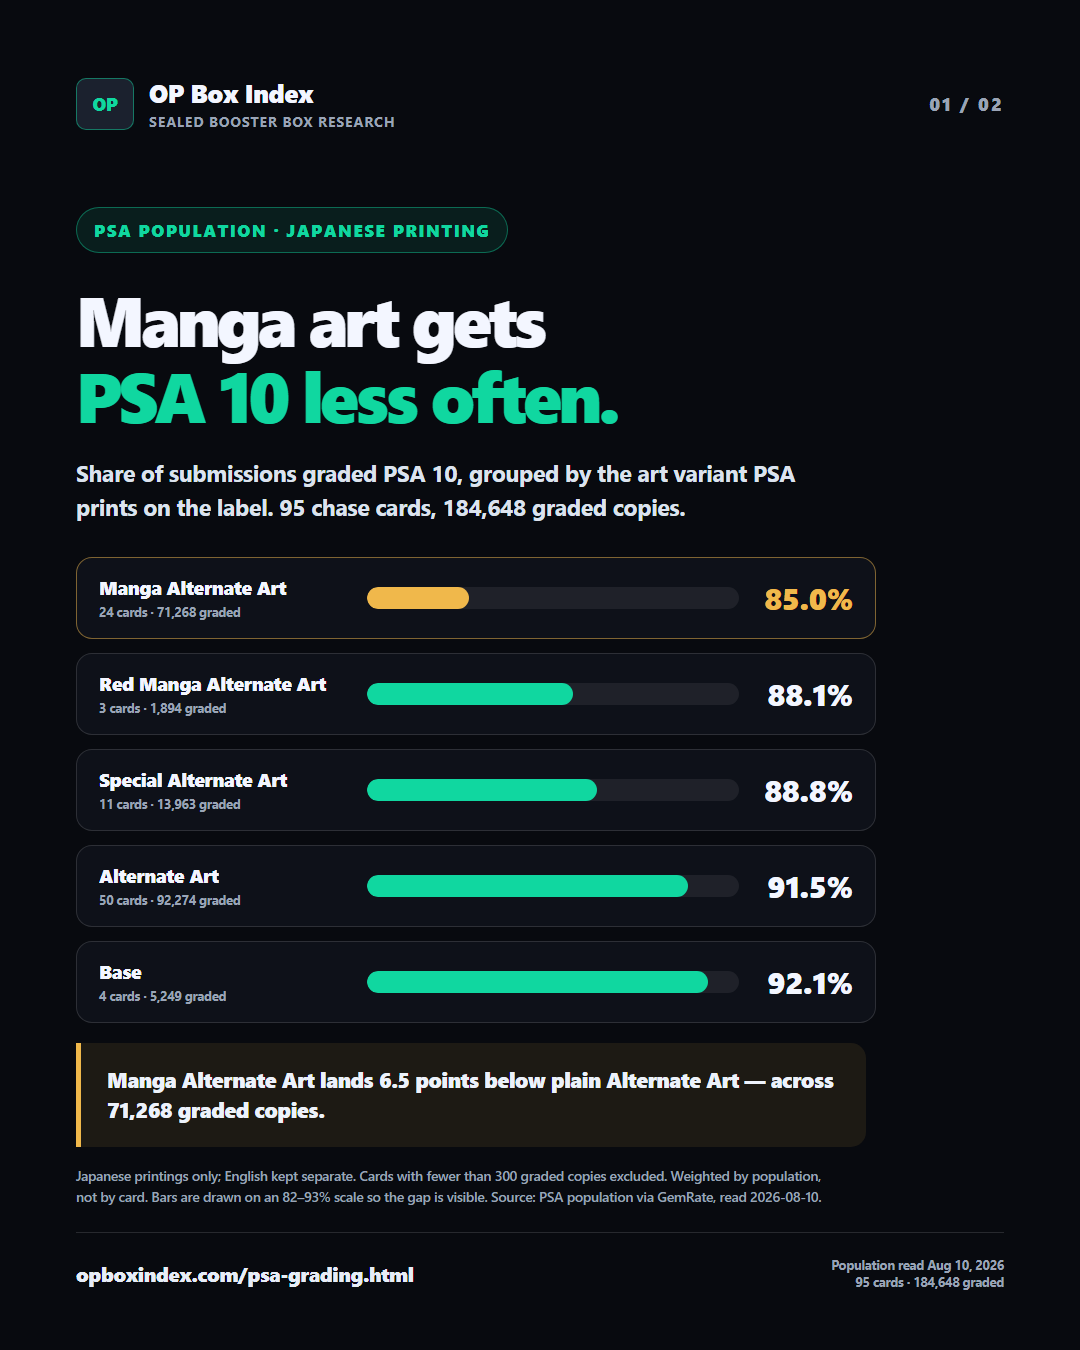
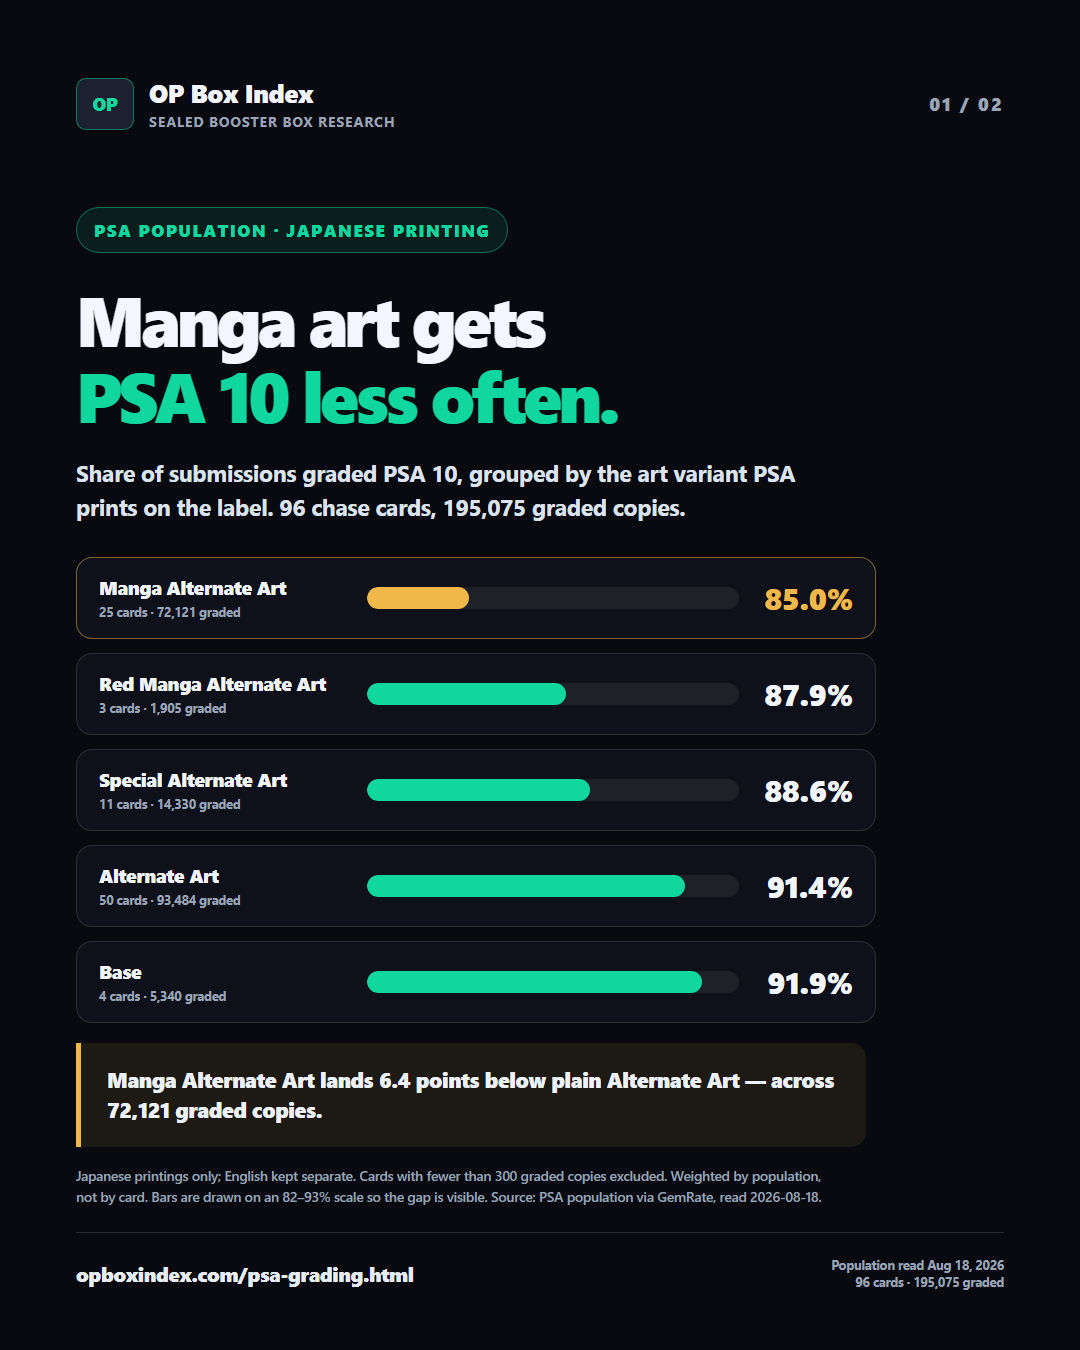
카드별 PSA 인구 8/18 수집 — 8/10 에 멈춰 있던 것
지난주 월요일 이후 카드별 PSA 인구만 갱신이 없었다(CGC·TAG 는 오늘 받았다).
스레드 카드에 "Aug 10" 이 박히길래 확인하다 발견했다.

왜 멈췄나 — GemRate 가 헤드리스 크롬을 봇으로 막는다("잠시만 기다리십시오").
tools/collect-psa-card-pop.js 는 헤드리스 CDP 라 이제 못 쓴다. 실브라우저에서
fetch 로 HTML 을 받아 `var RowData = '...'` 를 파싱하면 통과한다.

필드명도 실측과 달랐다. 스크립트는 total_graded 를 찾는데 실제는 card_total_grades 다
— 그대로 두면 감정 수가 전부 0 으로 들어간다(첫 시도가 그랬다). card_number 는
세트 접두어 없는 "069" 형식이라 "OP05-069" 와 직접 대조하면 하나도 안 맞는다.
이 두 가지를 post-copy.md 수집 메모에 적어 뒀다.

결과: jp 21세트 · en 12세트, 285건 적재. 남은 영문 7세트는 연속 요청 한도에 걸렸다.
Manga Alt 85.0% vs Alternate Art 91.4% — 8일 새 1만 장이 더 감정됐는데 비율은 그대로다.

스레드 카드·본문을 8/18 값으로 다시 뽑았다. 톤 규칙도 문서에 남긴다: 데이터보다
세게 말하지 않기, "알 수 없다" 류 방어 문장 금지, 조건은 "JP · Aug 18, 2026" 처럼 라벨로.

수집이 끝난 덤프는 지웠다(Downloads 26개 19MB, 임시파일 18개).

diff --git a/assets/social/threads-2026-08-18-psa-gem-by-variant/slide-01-en.html b/assets/social/threads-2026-08-18-psa-gem-by-variant/slide-01-en.html
@@ -18,42 +18,42 @@
 
       <div class="eyebrow">PSA POPULATION · JAPANESE PRINTING</div>
       <h1>Manga art gets<br /><span>PSA 10 less often.</span></h1>
-      <p class="deck">Share of submissions graded PSA 10, grouped by the art variant PSA prints on the label. 95 chase cards, 184,648 graded copies.</p>
+      <p class="deck">Share of submissions graded PSA 10, grouped by the art variant PSA prints on the label. 96 chase cards, 195,075 graded copies.</p>
 
       <section class="gemPanel" aria-label="PSA 10 rate by art variant">
         <article class="gemRow worst">
-          <div class="gemName">Manga Alternate Art<small>24 cards · 71,268 graded</small></div>
+          <div class="gemName">Manga Alternate Art<small>25 cards · 72,121 graded</small></div>
           <div class="gemBarWrap"><div class="gemBar" style="width:27.3%"></div></div>
           <div class="gemPct">85.0%</div>
         </article>
         <article class="gemRow">
-          <div class="gemName">Red Manga Alternate Art<small>3 cards · 1,894 graded</small></div>
-          <div class="gemBarWrap"><div class="gemBar" style="width:55.5%"></div></div>
-          <div class="gemPct">88.1%</div>
+          <div class="gemName">Red Manga Alternate Art<small>3 cards · 1,905 graded</small></div>
+          <div class="gemBarWrap"><div class="gemBar" style="width:53.6%"></div></div>
+          <div class="gemPct">87.9%</div>
         </article>
         <article class="gemRow">
-          <div class="gemName">Special Alternate Art<small>11 cards · 13,963 graded</small></div>
-          <div class="gemBarWrap"><div class="gemBar" style="width:61.8%"></div></div>
-          <div class="gemPct">88.8%</div>
+          <div class="gemName">Special Alternate Art<small>11 cards · 14,330 graded</small></div>
+          <div class="gemBarWrap"><div class="gemBar" style="width:60.0%"></div></div>
+          <div class="gemPct">88.6%</div>
         </article>
         <article class="gemRow">
-          <div class="gemName">Alternate Art<small>50 cards · 92,274 graded</small></div>
-          <div class="gemBarWrap"><div class="gemBar" style="width:86.4%"></div></div>
-          <div class="gemPct">91.5%</div>
+          <div class="gemName">Alternate Art<small>50 cards · 93,484 graded</small></div>
+          <div class="gemBarWrap"><div class="gemBar" style="width:85.5%"></div></div>
+          <div class="gemPct">91.4%</div>
         </article>
         <article class="gemRow">
-          <div class="gemName">Base<small>4 cards · 5,249 graded</small></div>
-          <div class="gemBarWrap"><div class="gemBar" style="width:91.8%"></div></div>
-          <div class="gemPct">92.1%</div>
+          <div class="gemName">Base<small>4 cards · 5,340 graded</small></div>
+          <div class="gemBarWrap"><div class="gemBar" style="width:90.0%"></div></div>
+          <div class="gemPct">91.9%</div>
         </article>
       </section>
 
-      <div class="insightBar">Manga Alternate Art lands 6.5 points below plain Alternate Art — across 71,268 graded copies.</div>
-      <p class="source">Japanese printings only; English kept separate. Cards with fewer than 300 graded copies excluded. Weighted by population, not by card. Bars are drawn on an 82–93% scale so the gap is visible. Source: PSA population via GemRate, read 2026-08-10.</p>
+      <div class="insightBar">Manga Alternate Art lands 6.4 points below plain Alternate Art — across 72,121 graded copies.</div>
+      <p class="source">Japanese printings only; English kept separate. Cards with fewer than 300 graded copies excluded. Weighted by population, not by card. Bars are drawn on an 82–93% scale so the gap is visible. Source: PSA population via GemRate, read 2026-08-18.</p>
 
       <div class="footerRow">
         <div class="url">opboxindex.com/psa-grading.html</div>
-        <div class="footerMeta">Population read Aug 10, 2026<br />95 cards · 184,648 graded</div>
+        <div class="footerMeta">Population read Aug 18, 2026<br />96 cards · 195,075 graded</div>
       </div>
     </main>
   </body>

diff --git a/assets/social/threads-2026-08-18-psa-gem-by-variant/slide-02-en.html b/assets/social/threads-2026-08-18-psa-gem-by-variant/slide-02-en.html
@@ -24,31 +24,31 @@
         <article class="cardItem top">
           <div class="cardRank">1</div>
           <div class="cardName">Trafalgar Law<small>OP05-069 · Manga Alt</small></div>
-          <div class="cardPop">2,903 graded</div>
+          <div class="cardPop">2,915 graded</div>
           <div class="cardGem">71%</div>
         </article>
         <article class="cardItem top">
           <div class="cardRank">2</div>
           <div class="cardName">Eustass“Captain”Kid<small>OP05-074 · Manga Alt</small></div>
-          <div class="cardPop">2,598 graded</div>
+          <div class="cardPop">2,607 graded</div>
           <div class="cardGem">73%</div>
         </article>
         <article class="cardItem top">
           <div class="cardRank">3</div>
           <div class="cardName">Jewelry Bonney<small>OP12-118 · Manga Alt</small></div>
-          <div class="cardPop">2,466 graded</div>
+          <div class="cardPop">2,480 graded</div>
           <div class="cardGem">74%</div>
         </article>
         <article class="cardItem top">
           <div class="cardRank">4</div>
           <div class="cardName">Uta<small>EB03-003 · Special Alt</small></div>
-          <div class="cardPop">1,155 graded</div>
+          <div class="cardPop">1,182 graded</div>
           <div class="cardGem">76%</div>
         </article>
         <article class="cardItem top">
           <div class="cardRank">5</div>
           <div class="cardName">Shanks<small>OP09-004 · Manga Alt</small></div>
-          <div class="cardPop">2,559 graded</div>
+          <div class="cardPop">2,572 graded</div>
           <div class="cardGem">77%</div>
         </article>
       </section>
@@ -59,16 +59,16 @@
         <article class="cardItem best">
           <div class="cardRank">—</div>
           <div class="cardName">Perona<small>OP06-021 · Alternate Art</small></div>
-          <div class="cardPop">1,200 graded</div>
+          <div class="cardPop">1,207 graded</div>
           <div class="cardGem">98%</div>
         </article>
       </section>
 
-      <p class="source">Japanese printings only. Trafalgar Law's other 25% is not damage — 25% came back PSA 9. Why manga art grades lower is not something this data answers; it only shows that it does. Source: PSA population via GemRate, read 2026-08-10.</p>
+      <p class="source">Japanese printings only. Trafalgar Law's other 25% is not damage — 25% came back PSA 9. Why manga art grades lower is not something this data answers; it only shows that it does. Source: PSA population via GemRate, read 2026-08-18.</p>
 
       <div class="footerRow">
         <div class="url">opboxindex.com/psa-grading.html</div>
-        <div class="footerMeta">Population read Aug 10, 2026<br />Median across 95 cards: 90%</div>
+        <div class="footerMeta">Population read Aug 18, 2026<br />Median across 96 cards: 90%</div>
       </div>
     </main>
   </body>

diff --git a/assets/social/threads-2026-08-18-psa-gem-by-variant/post-copy.md b/assets/social/threads-2026-08-18-psa-gem-by-variant/post-copy.md
@@ -4,26 +4,36 @@
 1. `threads-psa-gem-01-en.png` — 변형별 젬률
 2. `threads-psa-gem-02-en.png` — 개별 카드 최저 5장 + 최고 1장
 
-## 본문 (확정)
+## 본문 (확정 · 8/18 재수집 반영)
 
-Sending manga art to PSA? Budget for a 9.
+PSA 10 rates by art variant
 
-We grouped 95 Japanese chase cards — 184,648 graded copies — by the art variant printed on the PSA label. Manga Alternate Art returns a 10 in 85.0% of submissions. Plain Alternate Art: 91.5%. Base prints: 92.1%.
+96 Japanese chase cards, 195,075 graded, grouped by the art variant on the PSA label.
 
-The floor is Trafalgar Law OP05-069. Of 2,903 graded, 71% came back a 10 and 25% came back a 9. The ceiling is Perona OP06-021 at 98%.
+Median 90% — most gem fine. But the variants split.
 
-Japanese printings only — we keep English separate, since it's a different print run. Population read Aug 10, 2026.
+· Base 91.9%
+· Alternate Art 91.4%
+· Special Alt 88.6%
+· Manga Alt 85.0%
 
-Why manga art grades lower isn't something population data can answer. That it does, it can.
+Manga art sits 6.4 points lower, across 72,121 graded copies.
 
+Lowest: Trafalgar Law OP05-069 — 2,915 graded, 71% a 10, 25% a 9.
+Highest: Perona OP06-021 — 98%.
+
+JP · Aug 18, 2026
 opboxindex.com/psa-grading.html
+
+(454자 — 스레드 500자 제한 안. 처음 562자였던 초안에서 제목 부연·이음말·마지막 문단을
+줄여 맞췄다. 숫자는 하나도 빼지 않았다.)
 
 ## 본문이 이미지와 맞는지 대조
 | 본문 문장 | 이미지 근거 |
 | --- | --- |
-| 85.0 / 91.5 / 92.1% | 슬라이드 1 막대 |
-| 95 cards · 184,648 graded | 슬라이드 1 푸터 |
-| 71% a 10, 25% a 9 | 슬라이드 2 출처줄 |
+| 85.0 / 91.4 / 91.9% | 슬라이드 1 막대 |
+| 96 cards · 195,075 graded | 슬라이드 1 푸터 |
+| 71% a 10, 25% a 9 (2,915장) | 슬라이드 2 출처줄 |
 | Perona 98% | 슬라이드 2 비교 항목 |
 | Japanese only | 두 장 eyebrow |
 
@@ -41,3 +51,19 @@ opboxindex.com/psa-grading.html
 - 표본 300장 미만 카드 제외(95장 남음). 변형별 수치는 카드 평균이 아니라 감정 장수 가중.
 - 슬라이드 1 막대는 82~93% 스케일. 전 구간으로 그리면 6.5%p 가 안 보인다. 그 사실을 카드에 적었다.
 - 재현: node tools/... 없이도 data/psa-card-pop.json + onepiece-packs.json + ourTier() 로 다시 뽑힌다.
+
+## 톤 규칙 (2026-08-18 확립)
+- 데이터보다 세게 말하지 않는다. 젬률 85% 는 높은 수치다 — "9 받을 각오" 같은 훅은 과장이다.
+  중앙값(90%) 을 먼저 밝히고 그 다음에 차이를 말한다.
+- "이 데이터로는 알 수 없습니다" 류 방어 문장을 넣지 않는다. 정확하려고 붙인 말인데
+  읽는 쪽에는 근거가 빈약해 보인다. 모르는 건 안 쓰면 된다.
+- 조건은 라벨로 짧게. "일본판만 집계했습니다. 영문판은 인쇄 로트가 달라…" → "JP · Aug 18, 2026".
+  왜 그렇게 집계했는지는 이 파일과 커밋 메시지에만 남긴다.
+
+## 수집 메모 (2026-08-18)
+GemRate 카드별 인구는 헤드리스 크롬이 막힌다("잠시만 기다리십시오" = 봇 검사).
+실브라우저에서 fetch 로 HTML 을 받아 `var RowData = '...'` 를 파싱하면 통과한다.
+필드명 실측: card_number(세트 접두어 없는 "069" 형식) · name · parallel ·
+card_total_grades · g10 · g9. tools/collect-psa-card-pop.js 는 total_graded 를
+찾는데 그런 필드는 없다 — 그대로 두면 감정 수가 전부 0 으로 들어간다.
+연속 40회를 넘기면 요청이 막히기 시작한다(오늘 후반 7세트가 그렇게 실패했다).
